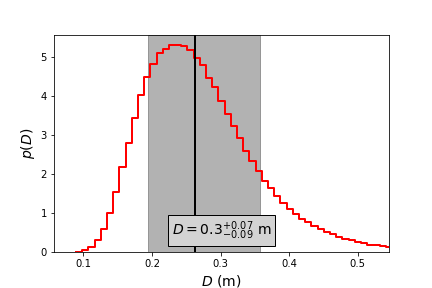
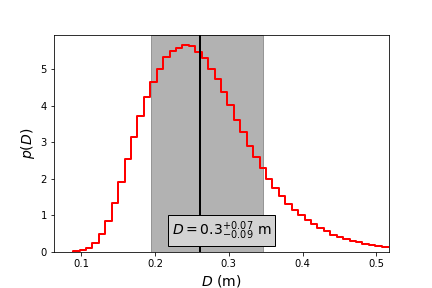
Commit

diff --git a/data/L1-21J/macros-results.tex b/data/L1-21J/macros-results.tex
@@ -3,8 +3,8 @@
 \newcommand{\Erel}{5\EE6} %log J
 \newcommand{\tflash}{0.3} %s 
 \newcommand{\Eimp}{0.3-0.7} %tons of TNT
-\newcommand{\Mrange}{9-51} %kg
-\newcommand{\Drange}{19-36} %cm
+\newcommand{\Mrange}{9-46} %kg
+\newcommand{\Drange}{20-35} %cm
 \newcommand{\craterRange}{5-10} %m
 \newcommand{\flashtime}{04:41:38 UTC}
 \newcommand{\etarange}{0.0018-0.0034} %adim.
